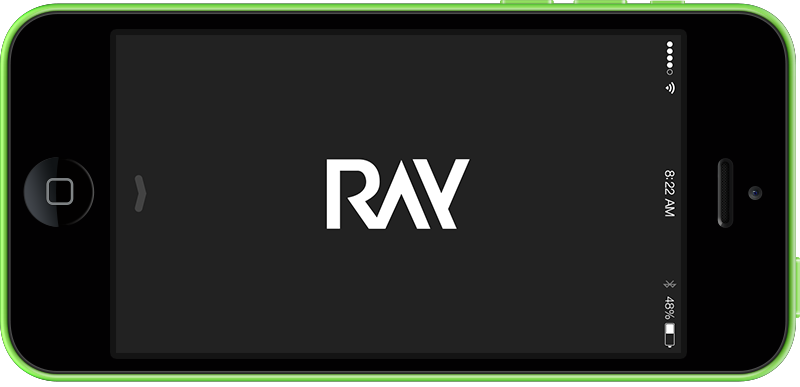
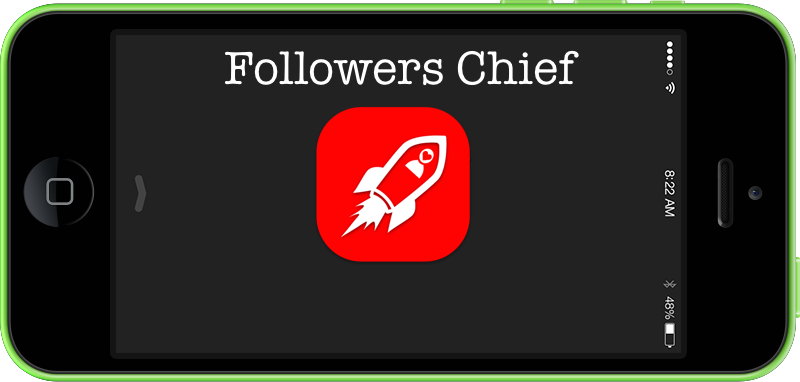
dfsdf

diff --git a/index.html b/index.html
@@ -5,9 +5,9 @@
 
 <!-- Html Page Specific -->
 <meta charset="utf-8">
-<title>Followers Manager</title>
-<meta name="description" content="Followers Manager">
-<meta name="author" content="Multifour | multifour.com">
+<title>Followers Chief</title>
+<meta name="description" content="Followers Chief">
+<meta name="author" content="Followersmanager.com">
 
 <!-- Mobile Specific -->
 <meta name="viewport" content="width=device-width, initial-scale=1, maximum-scale=1.0, user-scalable=no">
@@ -33,19 +33,12 @@
 
 <body data-spy="scroll" data-target=".navMenuCollapse">
 
-<!-- PRELOADER -->
-<div id="preloader">
-	<div class="battery inner">
-		<div class="load-line"></div>
-	</div>
-</div>
 
-<div id="wrap"> 
 
 	<!-- NAVIGATION BEGIN -->
 	<nav class="navbar navbar-fixed-top navbar-slide">
 			<div class="container_fluid"> 
-				<a class="navbar-brand goto" href="index.html#wrap"> <img src="./images/logo_nav.png" alt="Your logo" height="27" width="56" /> </a>
+				<a class="navbar-brand goto" href="index.html#wrap"> <img src="./images/logo_nav.png" alt="Your logo" height="32" width="32" /> </a>
 				<a class="contact-btn icon-envelope" data-toggle="modal" data-target="#modalContact"></a>
 				<button class="navbar-toggle menu-collapse-btn collapsed" data-toggle="collapse" data-target=".navMenuCollapse"> <span class="icon-bar"></span> <span class="icon-bar"></span> <span class="icon-bar"></span> </button>
 				<div class="collapse navbar-collapse navMenuCollapse">
@@ -71,11 +64,11 @@
 		<div class="container">
 			<div class="row">
 				<div class="col-md-8 col-sm-12">
-					<img class="logo" src="./images/logo.png" alt="Your Logo" height="70" width="144" />
-					<h1 class="slogan">The Best Start Up For <br> Your <span class="type"></span> App</h1>
+					<img class="logo" src="./images/logo.png" alt="Your Logo" height="100" width="100" />
+					<h1 class="slogan"><span class="type"></span>Instagram <br> Automation Tool Service</h1>
 					<a class="download-btn ios-btn" href="#">
 						<div class="btn-slide"></div>
-						<div class="btn-content"><i class="icon soc-icon-android"></i>Download for <b>Apple iOS</b></div>
+						<div class="btn-content"><i class="icon soc-icon-android"></i>Download for <b> Android </b></div>
 					</a>
 				</div>
 				<div class="col-md-4 hidden-sm hidden-xs">
@@ -239,33 +232,20 @@ design make it actual for a long time.</p>
 	</section>
 	<!-- BENEFITS2 END --> 
 	
-	<!-- VIDEO BEGIN -->
-	<section id="video">
-		<div class="container">
-			<div class="title">
-				<h2>Iframe Video</h2>
-				<p>In our work we try to use only the most modern, convenient and interesting solutions.</p>
-			</div>
-			<div class="video-container"> 
-				<!-- Video iframe code here -->
-			</div>
-		</div>
-	</section>
-	<!-- VIDEO END --> 
 	
 	<!-- SCREENSHOTS BEGIN -->
 	<section id="screenshots" class="bg-color2">
 		<div class="container-fluid wow fadeIn">
 			<h2>Screenshots</h2>
 			<div id="screenshots-slider" class="owl-carousel">
-				<a class="item" href="./images/screen1.jpg" title="App Screen 1"><img src="images/screen1.jpg" alt="screen1" width="250" height="444" /></a>
-				<a class="item" href="./images/screen1.jpg" title="App Screen 2"><img src="images/screen1.jpg" alt="screen1" width="250" height="444"/></a>
-				<a class="item" href="./images/screen1.jpg" title="App Screen 3"><img src="images/screen1.jpg" alt="screen1" width="250" height="444"/></a>
-				<a class="item" href="./images/screen1.jpg" title="App Screen 4"><img src="images/screen1.jpg" alt="screen1" width="250" height="444"/></a>
-				<a class="item" href="./images/screen1.jpg" title="App Screen 5"><img src="images/screen1.jpg" alt="screen1" width="250" height="444"/></a>
-				<a class="item" href="./images/screen1.jpg" title="App Screen 6"><img src="images/screen1.jpg" alt="screen1" width="250" height="444"/></a>
-				<a class="item" href="./images/screen1.jpg" title="App Screen 7"><img src="images/screen1.jpg" alt="screen1" width="250" height="444"/></a>
-				<a class="item" href="./images/screen1.jpg" title="App Screen 8"><img src="images/screen1.jpg" alt="screen1" width="250" height="444"/></a>
+				<a class="item" href="./images/screen1.png" title="App Screen 1"><img src="images/screen1.png" alt="screen1" width="250" height="444" /></a>
+				<a class="item" href="./images/screen2.png" title="App Screen 2"><img src="images/screen2.png" alt="screen2" width="250" height="444"/></a>
+				<a class="item" href="./images/screen3.png" title="App Screen 3"><img src="images/screen3.png" alt="screen3" width="250" height="444"/></a>
+				<a class="item" href="./images/screen4.png" title="App Screen 4"><img src="images/screen4.png" alt="screen4" width="250" height="444"/></a>
+				<a class="item" href="./images/screen5.png" title="App Screen 5"><img src="images/screen5.png" alt="screen5" width="250" height="444"/></a>
+				<a class="item" href="./images/screen6.png" title="App Screen 6"><img src="images/screen6.png" alt="screen6" width="250" height="444"/></a>
+				<a class="item" href="./images/screen7.png" title="App Screen 7"><img src="images/screen7.png" alt="screen7" width="250" height="444"/></a>
+				
 			</div>
 		</div>
 	</section>
@@ -485,7 +465,7 @@ design make it actual for a long time.</p>
 	<section id="download" class="bg-color-main">
 		<div class="container-fluid wow fadeInDown">
 			<a href="#wrap" class="goto">
-				<h2><i class="icon soc-icon-apple"></i>Download App</h2>
+				<h2><i class="icon soc-icon-android"></i>Download Followers chief</h2>
 			</a>
 		</div>
 		<div class="block-bg" data-stellar-ratio="0.5"></div>
@@ -496,9 +476,9 @@ design make it actual for a long time.</p>
 	<!-- FOOTER BEGIN -->
 	<footer id="footer">
 		<div class="container"> 
-			<a href="index.html#wrap" class="logo goto"> <img src="./images/logo_small.png" alt="Your Logo" height="35" width="72"/> </a>
-			<p class="copyright">&copy; 2015 RAY <br>
-			Designed by <a href="http://multifour.com/" target="_blank">Multifour.com</a></p>
+			<a href="index.html#wrap" class="logo goto"> <img src="./images/logo_small.png" alt="Your Logo" height="70" width="70"/> </a>
+			<p class="copyright">&copy; 2017 Followers Chief <br>
+			Designed by <a href="http://multifour.com/" target="_blank"> DGKN </a></p>
 		</div>
 	</footer>
 	<!-- FOOTER END --> 

diff --git a/scripts/custom.js b/scripts/custom.js
@@ -92,9 +92,9 @@ $(document).ready(function(){
 //						     INTRO SLOGAN TYPE
 //------------------------------------------------------------------------		
 	$(".type").typed({
-    	strings: ["Elegant", "Fresh", "Juicy", "Beautiful"],
+    	strings: ["Best Price", "Most Effective", "Most Trusted", "Most Secure"],
         typeSpeed: 200,
-		backDelay:6000,
+		backDelay:3000,
 		loop: true,
         loopCount: false,
     });
